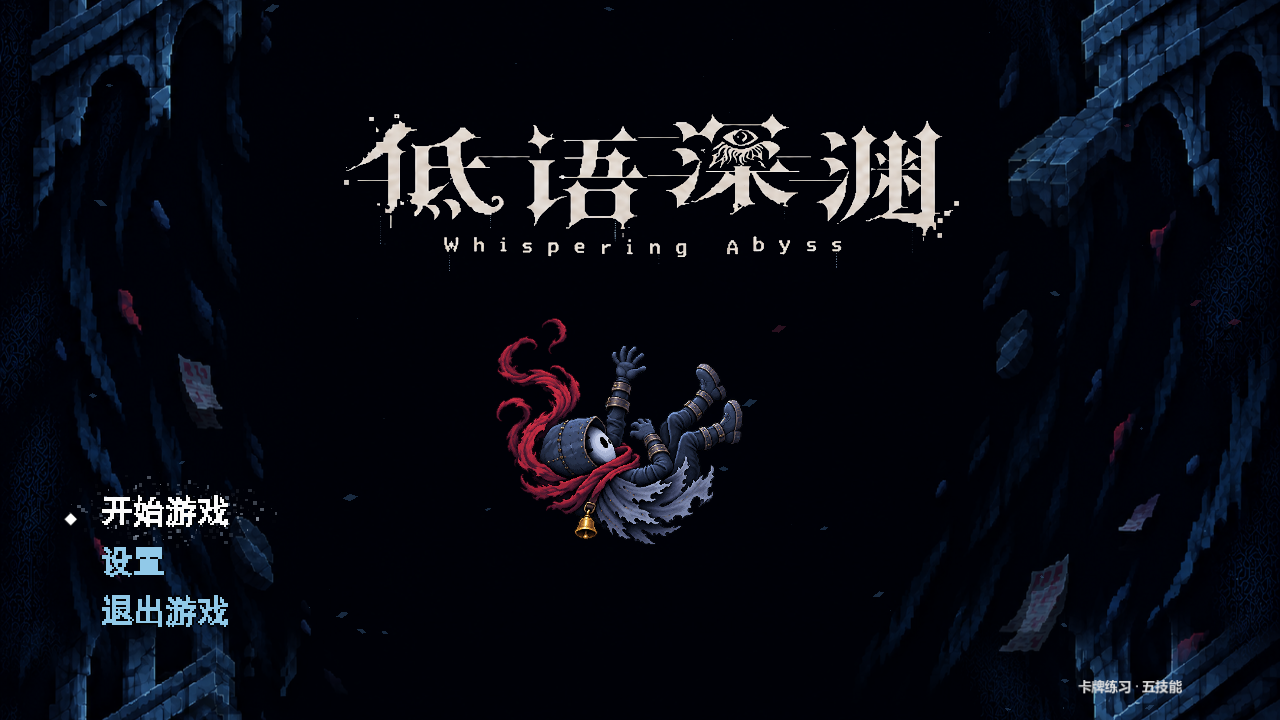
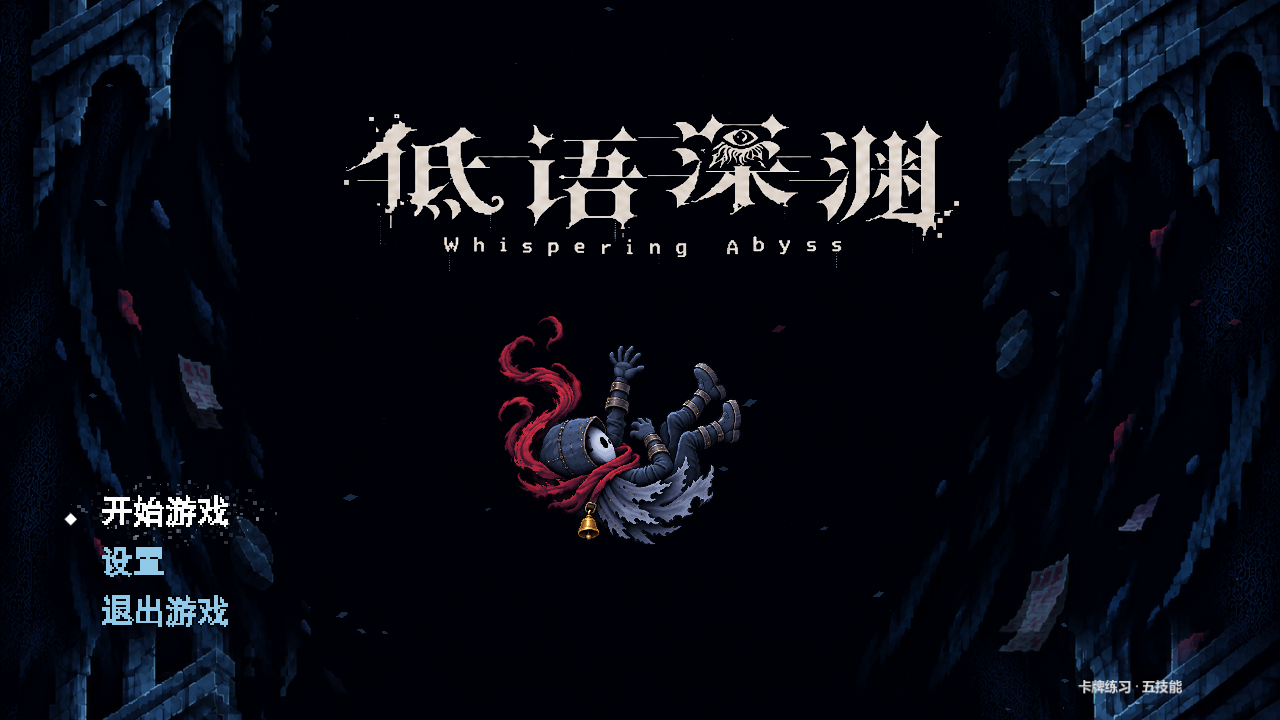
Animate falling hero scarf limbs and bell with localized motion

Changed region(s): [[0.375, 0.4278, 0.5, 0.7639], [0.5312, 0.4889, 0.5938, 0.6111]]

diff --git a/assets/menu/ASSET_SOURCES.md b/assets/menu/ASSET_SOURCES.md
@@ -8,6 +8,8 @@
 - `scripts/title_fall.gd`：远景与墙体分别按 0.010 / 0.027 周期每秒向上滚动，近处碎屑以 32–105 逻辑像素/秒上升；人物漂移约 7 像素，摆动约 1.6 度，标题与交互菜单固定。
 - `shaders/title_scroll.gdshader`：循环采样与末端过渡混合；`shaders/title_logo.gdshader`：标题透明遮罩。
 - 生成提示词见 `falling_prompts.json`。原始静态图保留，运行时改为独立图层组合。
+- `shaders/falling_hero_motion.gdshader` 在人物透明层上做局部 UV 变形：围巾末端气流波动、双手与双脚错相摆动、铃铛绕悬挂点延迟摇摆。不是完整逐帧或骨骼动画；保留原始人物 PNG，幅度由 `title_fall.gd` 的 `character_motion` 控制。
+- `tests/title_character_motion.gd` 对比两个时刻的实际渲染，检查围巾、手、脚与铃铛四个区域均存在变化。
 
 用户提供《低语深渊》启动界面作为美术来源。`title_clean.png` 使用内置 image_gen 仅移除左下角已绘制的三项菜单、菱形与选中光晕，其余标题和构图保留。未覆盖原始素材。
 
